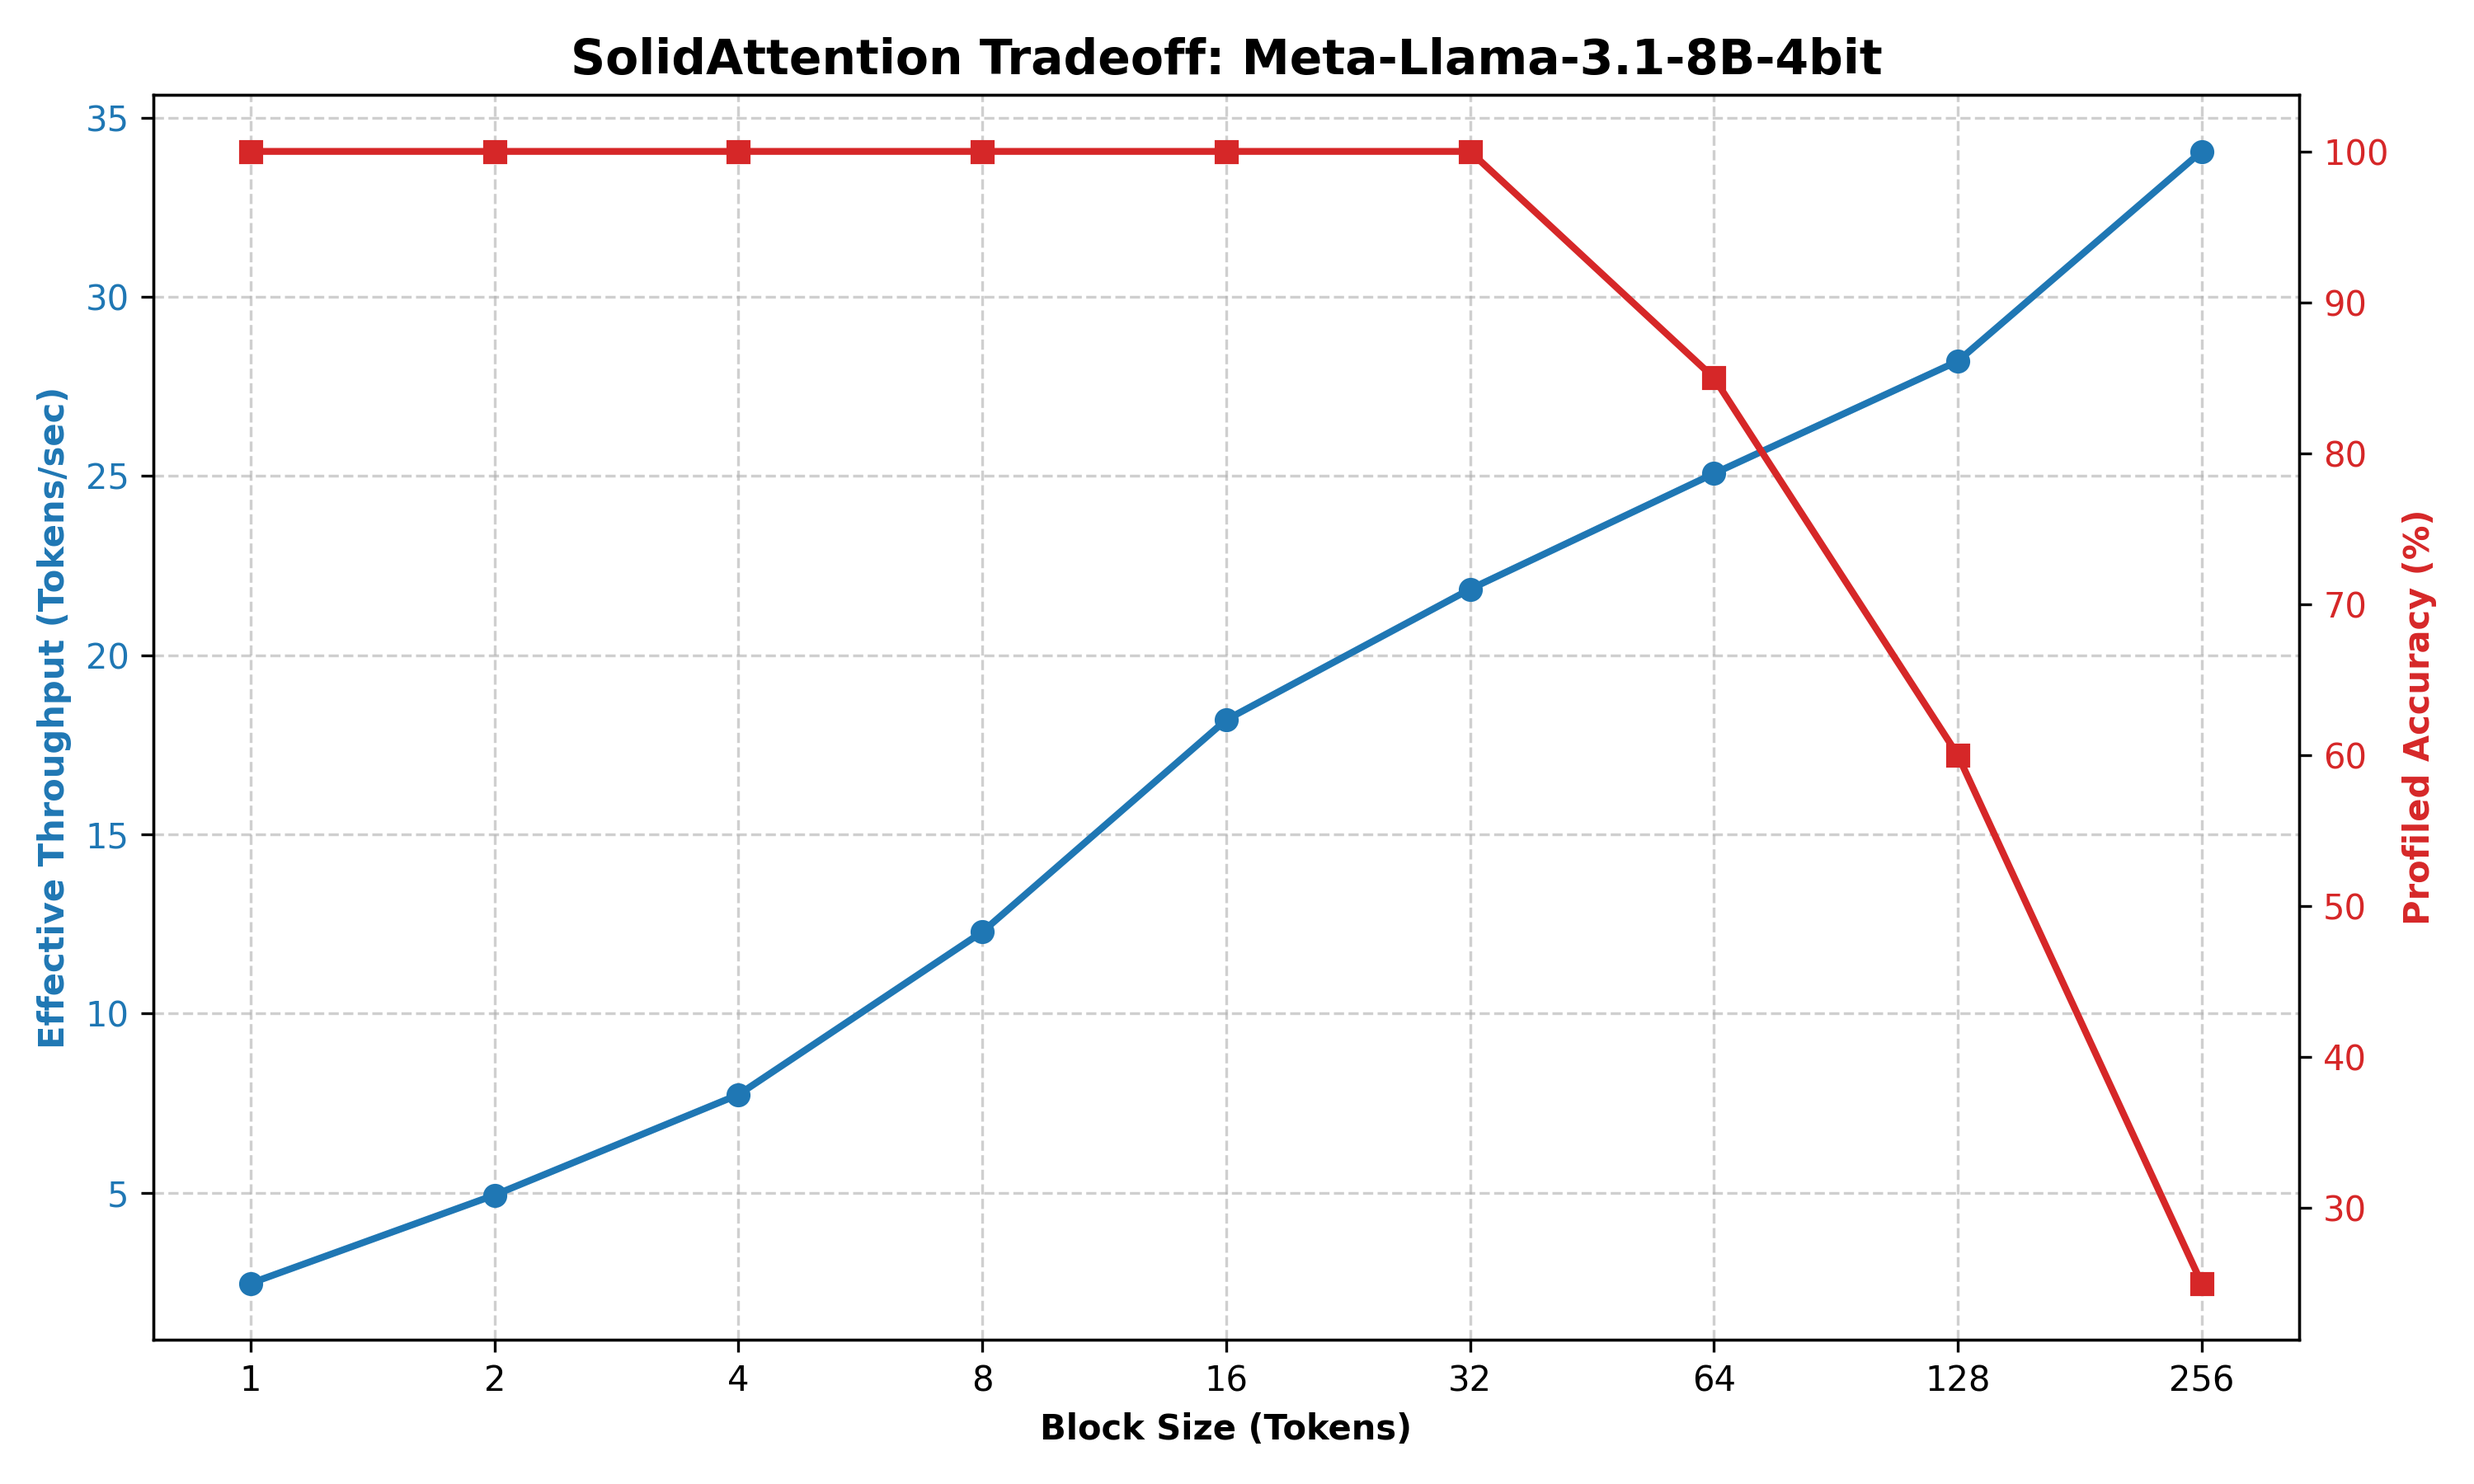
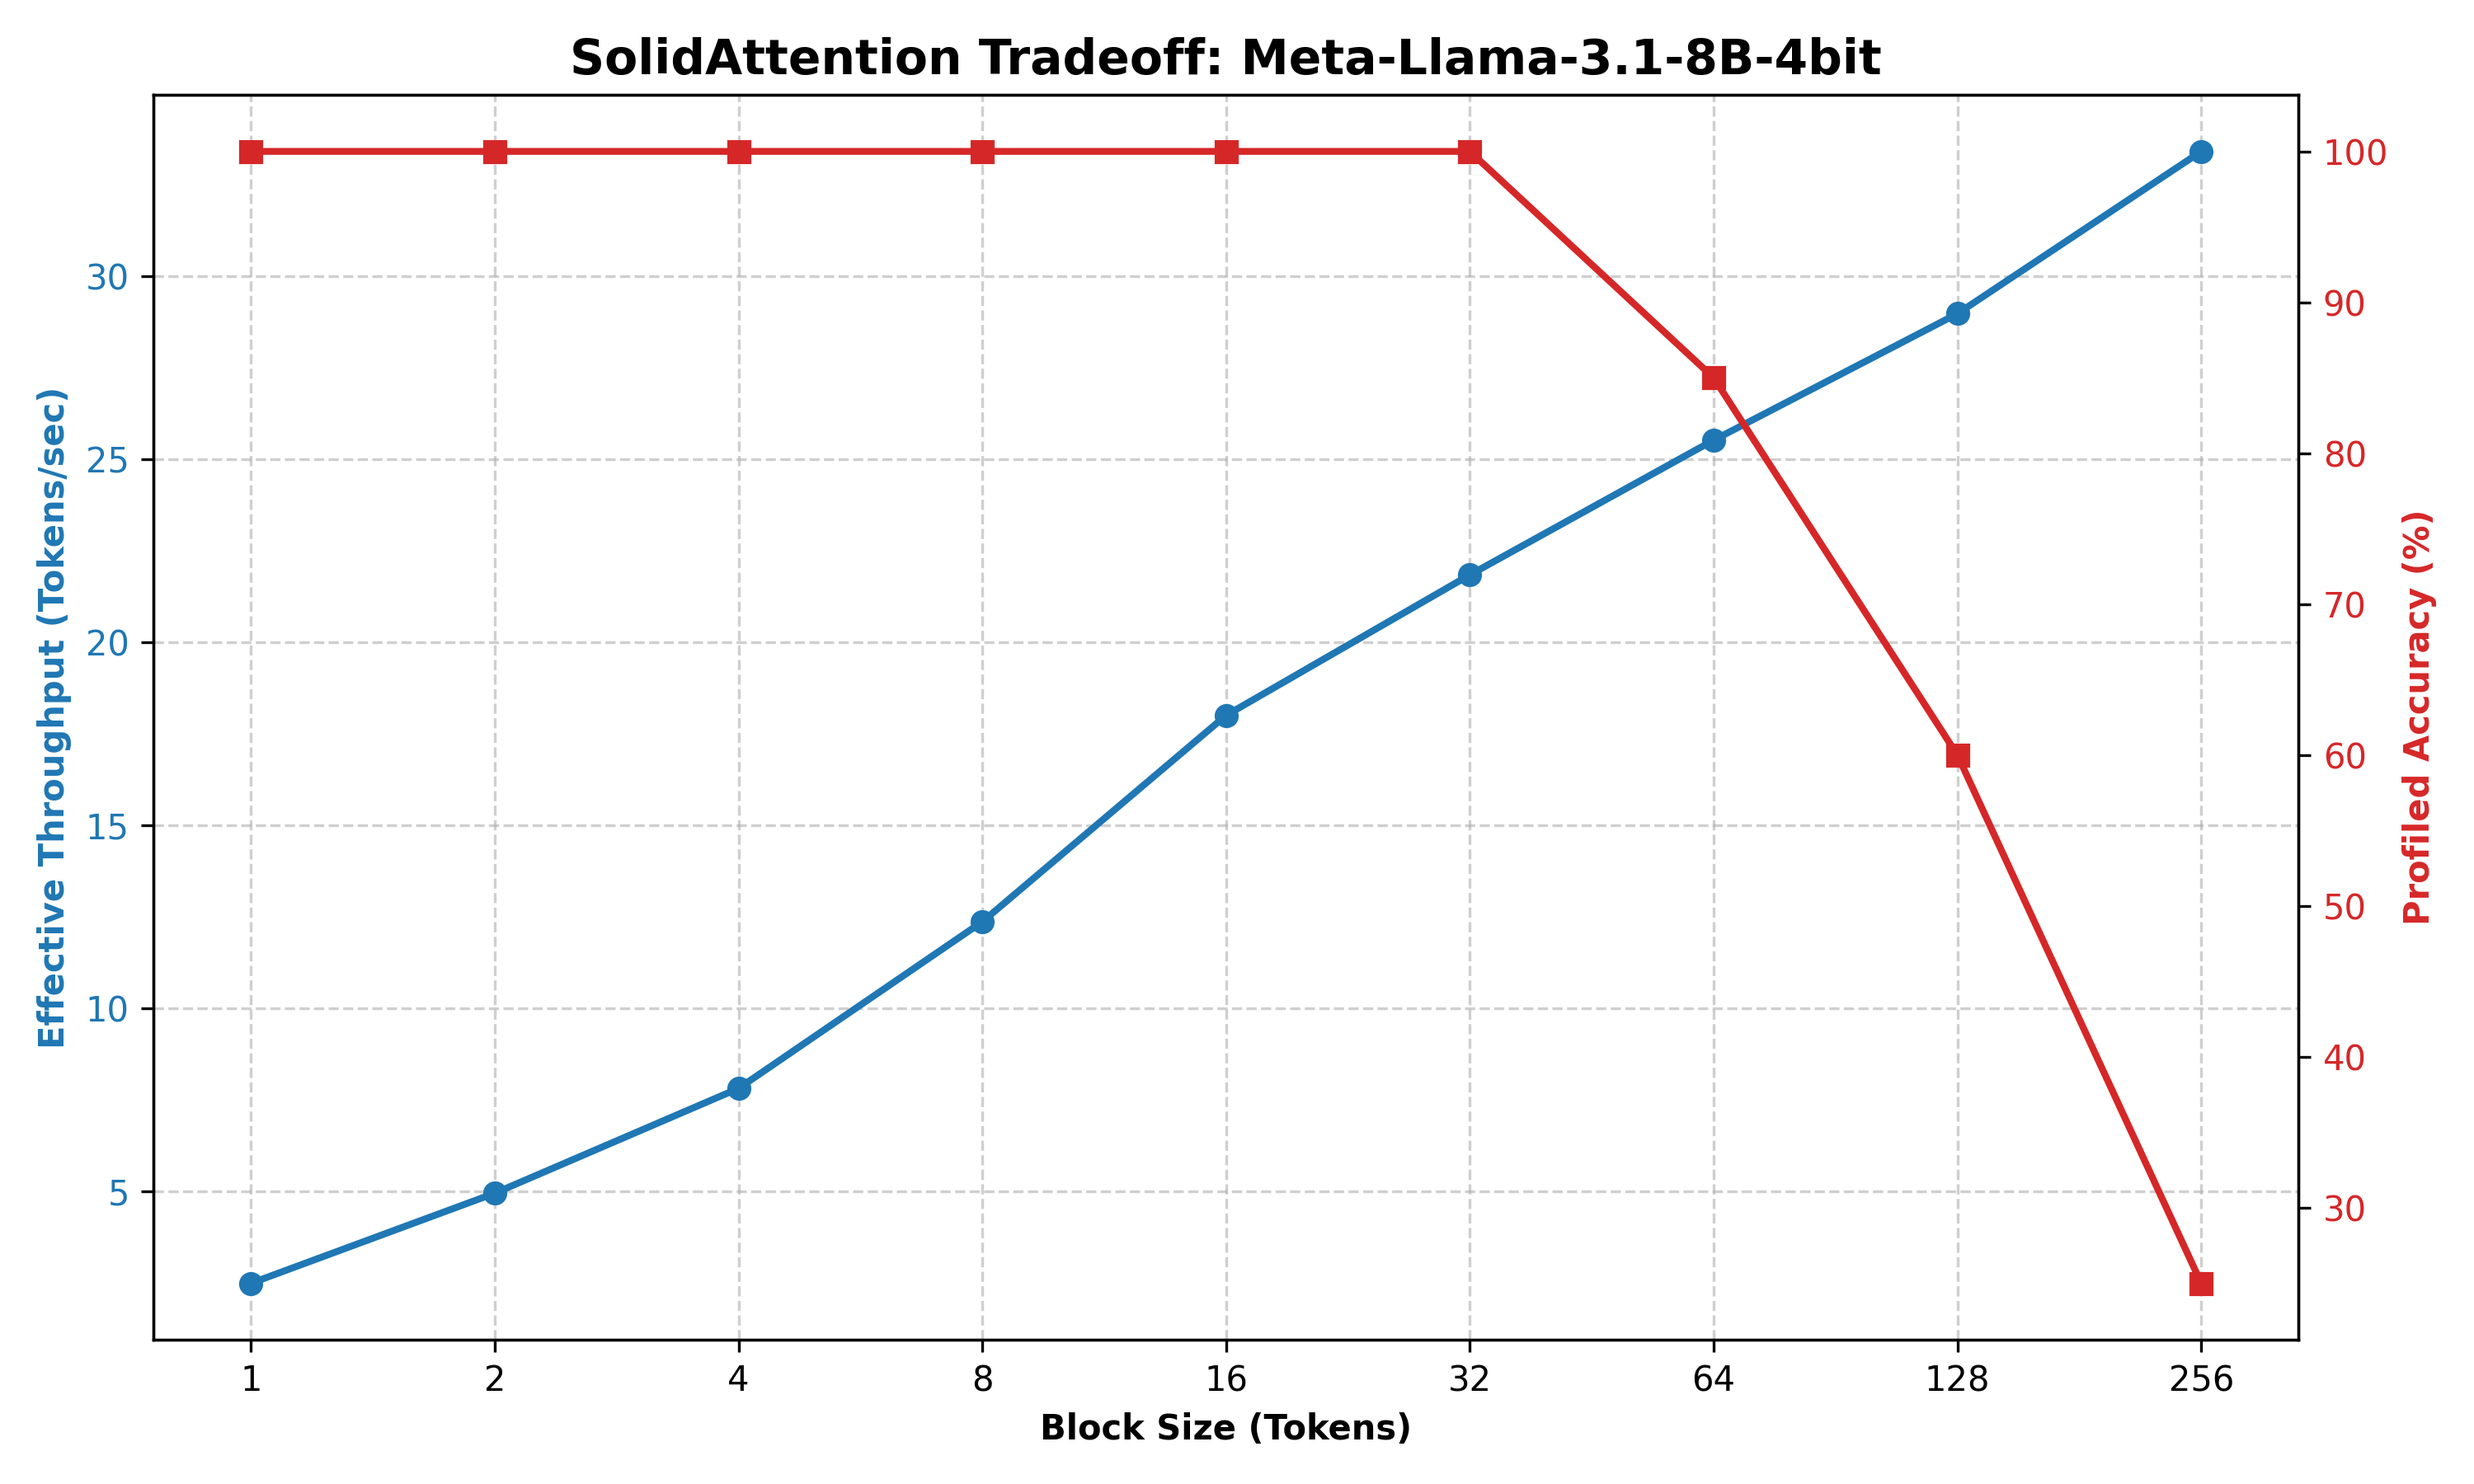
feat: add Pareto efficiency analysis plotting to the simulation script.

diff --git a/scripts/phase3_simulation.py b/scripts/phase3_simulation.py
@@ -152,6 +152,26 @@ def run_simulation(model_name, use_dummy=False, task='niah'):
     plt.savefig(output_path, dpi=300)
     print(f"\nSaved chart to '{output_path}'")
 
+    # ---------------------------------------------------------
+    # 6. Plotting Pareto Curve (Throughput vs Accuracy)
+    # ---------------------------------------------------------
+    fig2, ax_pareto = plt.subplots(figsize=(10, 6))
+    ax_pareto.plot(system_throughputs, accuracies, marker='o', linestyle='-', color='b', linewidth=2, markersize=8)
+    
+    # Annotate points with the block size
+    for bs, t, a in zip(block_sizes_tokens, system_throughputs, accuracies):
+        ax_pareto.annotate(f"{bs}", (t, a), textcoords="offset points", xytext=(0,10), ha='center')
+
+    ax_pareto.set_xlabel('Effective Throughput (Tokens/sec)', fontweight='bold', fontsize=12)
+    ax_pareto.set_ylabel('Profiled Accuracy (%)', fontweight='bold', fontsize=12)
+    ax_pareto.set_title(f'Throughput vs Accuracy Pareto: {safe_model_name}', fontsize=14, fontweight='bold')
+    ax_pareto.grid(True, linestyle='--', alpha=0.7)
+    fig2.tight_layout()
+
+    pareto_output_path = os.path.join(output_dir, f'{prefix}pareto_{task}_{safe_model_name}.png')
+    fig2.savefig(pareto_output_path, dpi=300)
+    print(f"Saved Pareto chart to '{pareto_output_path}'")
+
 if __name__ == "__main__":
     parser = argparse.ArgumentParser(description="Run Phase 3 SolidAttention Simulation")
     parser.add_argument("--model", type=str, default="meta-llama/Meta-Llama-3.1-8B-4bit",
